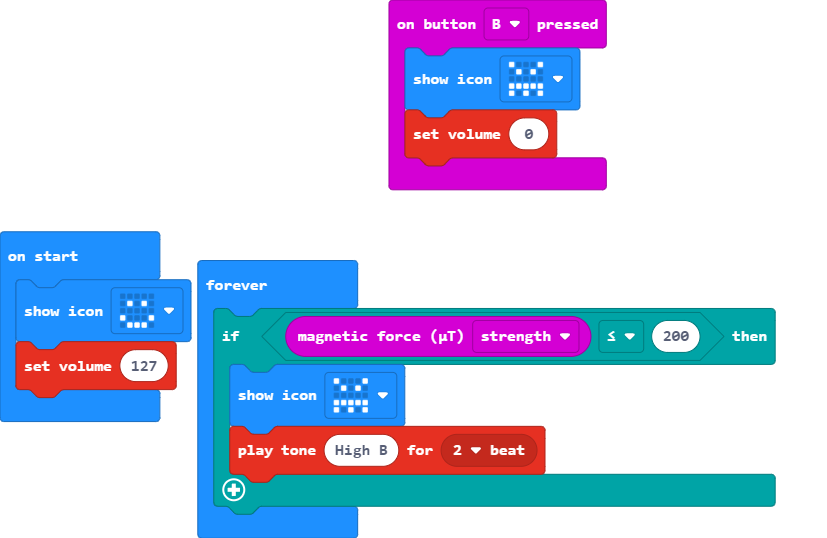
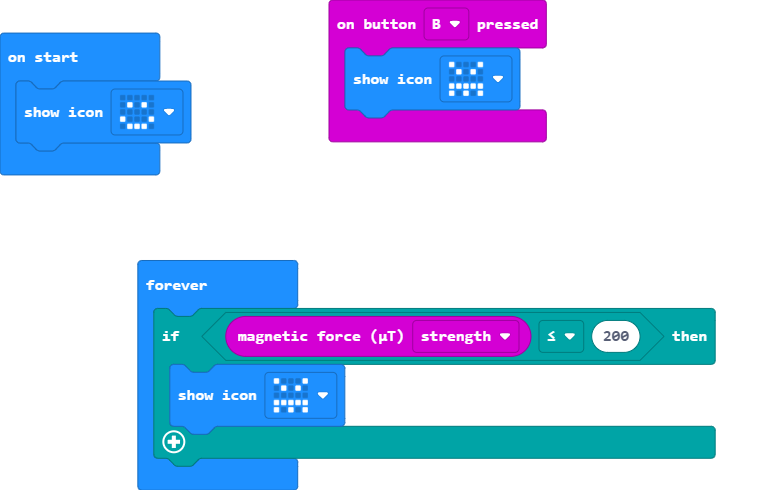
Update main.blocks, main.ts

diff --git a/main.ts b/main.ts
@@ -1,12 +1,9 @@
 input.onButtonPressed(Button.B, function () {
     basic.showIcon(IconNames.Angry)
-    music.setVolume(0)
 })
 basic.showIcon(IconNames.Happy)
-music.setVolume(127)
 basic.forever(function () {
     if (input.magneticForce(Dimension.Strength) <= 200) {
         basic.showIcon(IconNames.Angry)
-        music.playTone(988, music.beat(BeatFraction.Double))
     }
 })
